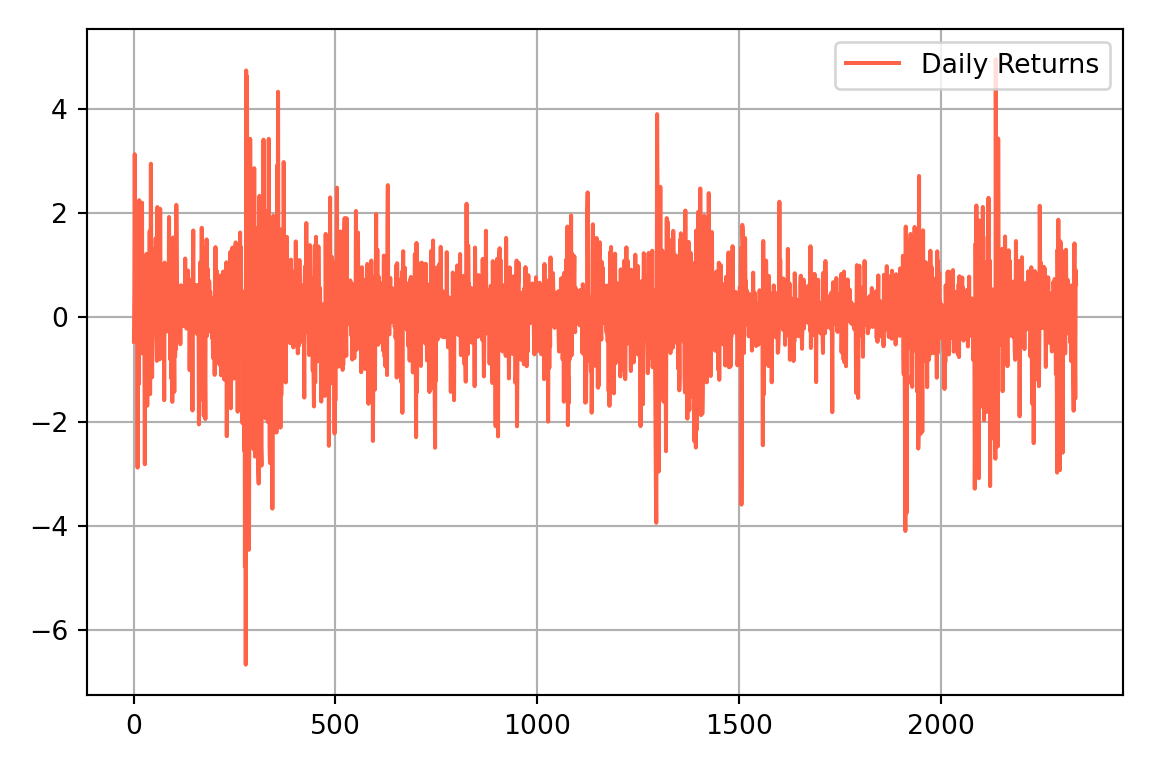
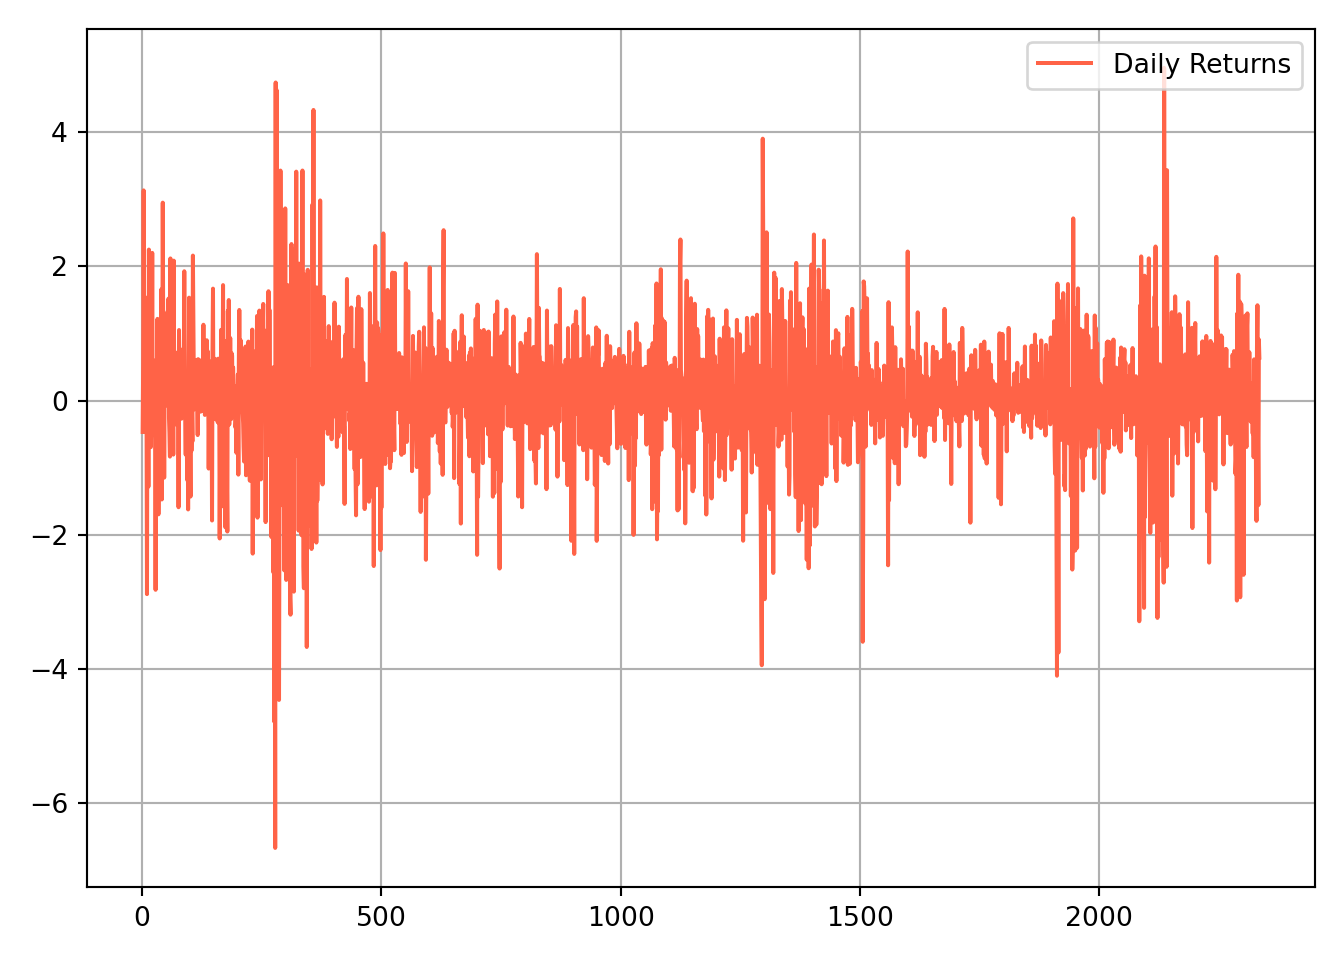
version 2.0

Changed region(s): [[0.0312, 0.0312, 1.0, 0.9688], [0.7812, 0.6562, 0.8438, 0.7188], [0.7812, 0.25, 0.8125, 0.3438]]

diff --git a/docs/fundamentos-del-modelo-garch.html b/docs/fundamentos-del-modelo-garch.html
@@ -215,9 +215,9 @@ code span.wa { color: #60a0b0; font-weight: bold; font-style: italic; } /* Warni
 <h2><span class="header-section-number">2.3</span> Calculo de Volatilidad en <code>Python</code><a href="fundamentos-del-modelo-garch.html#calculo-de-volatilidad-en-python" class="anchor-section" aria-label="Anchor link to header"></a></h2>
 <p>Antes de que te de dolor de cabeza mirar las fórmulas matemáticas, la buena noticia es que puedes implementarlas en Python fácilmente.</p>
 <p>Para calcular los cambios porcentuales como rendimientos, aplicamos el método <code>"pct_change()"</code> del paquete <code>"pandas"</code> a los datos de precios, por ejemplo:</p>
-<div class="sourceCode" id="cb2"><pre class="sourceCode bash"><code class="sourceCode bash"><span id="cb2-1"><a href="fundamentos-del-modelo-garch.html#cb2-1" tabindex="-1"></a><span class="ex">return_data</span> = price_data.pct_change<span class="er">(</span><span class="kw">)</span></span></code></pre></div>
+<div class="sourceCode" id="cb1"><pre class="sourceCode bash"><code class="sourceCode bash"><span id="cb1-1"><a href="fundamentos-del-modelo-garch.html#cb1-1" tabindex="-1"></a><span class="ex">return_data</span> = price_data.pct_change<span class="er">(</span><span class="kw">)</span></span></code></pre></div>
 <p>Luego aplicamos el método <code>"std()"</code> a los datos devueltos para calcular la desviación estándar.</p>
-<div class="sourceCode" id="cb3"><pre class="sourceCode bash"><code class="sourceCode bash"><span id="cb3-1"><a href="fundamentos-del-modelo-garch.html#cb3-1" tabindex="-1"></a><span class="ex">Volatilidad</span> = return_data.std<span class="er">(</span><span class="kw">)</span></span></code></pre></div>
+<div class="sourceCode" id="cb2"><pre class="sourceCode bash"><code class="sourceCode bash"><span id="cb2-1"><a href="fundamentos-del-modelo-garch.html#cb2-1" tabindex="-1"></a><span class="ex">Volatilidad</span> = return_data.std<span class="er">(</span><span class="kw">)</span></span></code></pre></div>
 </div>
 <div id="conversión-de-volatilidad" class="section level2 hasAnchor" number="2.4">
 <h2><span class="header-section-number">2.4</span> Conversión de Volatilidad<a href="#conversi%C3%B3n-de-volatilidad" class="anchor-section" aria-label="Anchor link to header"></a></h2>
@@ -252,20 +252,20 @@ code span.wa { color: #60a0b0; font-weight: bold; font-style: italic; } /* Warni
 <h2><span class="header-section-number">2.7</span> Observando la agrupación de la volatilidad<a href="#observando-la-agrupaci%C3%B3n-de-la-volatilidad" class="anchor-section" aria-label="Anchor link to header"></a></h2>
 <p>La agrupación de la volatilidad se observa con frecuencia en los datos del mercado financiero y plantea un desafío para el modelado de series de tiempo.</p>
 <p>En este ejercicio, nos familiarizaremos con el conjunto de datos de precios diarios del S&amp;P500. Calcularemos las rentabilidades diarias a medida que cambia el precio porcentual, graficaremos los resultados y observaremos su comportamiento a lo largo del tiempo</p>
-<div class="sourceCode" id="cb4"><pre class="sourceCode python"><code class="sourceCode python"><span id="cb4-1"><a href="fundamentos-del-modelo-garch.html#cb4-1" tabindex="-1"></a><span class="im">import</span> pandas <span class="im">as</span> pd</span>
-<span id="cb4-2"><a href="fundamentos-del-modelo-garch.html#cb4-2" tabindex="-1"></a></span>
-<span id="cb4-3"><a href="fundamentos-del-modelo-garch.html#cb4-3" tabindex="-1"></a>sp_price <span class="op">=</span> pd.read_csv(<span class="st">&#39;/Users/juanisaulamejia/Documents/2025/GARCH Model/Data/SP500.csv&#39;</span>)</span></code></pre></div>
+<div class="sourceCode" id="cb3"><pre class="sourceCode python"><code class="sourceCode python"><span id="cb3-1"><a href="fundamentos-del-modelo-garch.html#cb3-1" tabindex="-1"></a><span class="im">import</span> pandas <span class="im">as</span> pd</span>
+<span id="cb3-2"><a href="fundamentos-del-modelo-garch.html#cb3-2" tabindex="-1"></a></span>
+<span id="cb3-3"><a href="fundamentos-del-modelo-garch.html#cb3-3" tabindex="-1"></a>sp_price <span class="op">=</span> pd.read_csv(<span class="st">&#39;/Users/juanisaulamejia/Documents/2025/GARCH Model/Data/SP500.csv&#39;</span>)</span></code></pre></div>
 <ul>
 <li><p>Comencemos calculando los rendimientos diarios como cambios porcentuales y guardamos en el dataframe <code>sp_price</code> en una nueva columna llamada <code>Return</code>.</p>
-<div class="sourceCode" id="cb5"><pre class="sourceCode python"><code class="sourceCode python"><span id="cb5-1"><a href="fundamentos-del-modelo-garch.html#cb5-1" tabindex="-1"></a><span class="im">import</span> matplotlib</span>
-<span id="cb5-2"><a href="fundamentos-del-modelo-garch.html#cb5-2" tabindex="-1"></a>matplotlib.use(<span class="st">&quot;Agg&quot;</span>)</span>
-<span id="cb5-3"><a href="fundamentos-del-modelo-garch.html#cb5-3" tabindex="-1"></a><span class="im">import</span> matplotlib.pyplot <span class="im">as</span> plt</span>
-<span id="cb5-4"><a href="fundamentos-del-modelo-garch.html#cb5-4" tabindex="-1"></a>plt.rcParams[<span class="st">&quot;figure.dpi&quot;</span>] <span class="op">=</span> <span class="dv">150</span></span>
-<span id="cb5-5"><a href="fundamentos-del-modelo-garch.html#cb5-5" tabindex="-1"></a><span class="co"># Cambios porcentuales </span></span>
-<span id="cb5-6"><a href="fundamentos-del-modelo-garch.html#cb5-6" tabindex="-1"></a>sp_price[<span class="st">&#39;Return&#39;</span>] <span class="op">=</span> <span class="dv">100</span> <span class="op">*</span> (sp_price[<span class="st">&#39;Close&#39;</span>].pct_change())</span>
-<span id="cb5-7"><a href="fundamentos-del-modelo-garch.html#cb5-7" tabindex="-1"></a></span>
-<span id="cb5-8"><a href="fundamentos-del-modelo-garch.html#cb5-8" tabindex="-1"></a><span class="co"># Ultimos 10 datos del sp_price</span></span>
-<span id="cb5-9"><a href="fundamentos-del-modelo-garch.html#cb5-9" tabindex="-1"></a><span class="bu">print</span>(sp_price.tail(<span class="dv">10</span>))</span></code></pre></div>
+<div class="sourceCode" id="cb4"><pre class="sourceCode python"><code class="sourceCode python"><span id="cb4-1"><a href="fundamentos-del-modelo-garch.html#cb4-1" tabindex="-1"></a><span class="im">import</span> matplotlib</span>
+<span id="cb4-2"><a href="fundamentos-del-modelo-garch.html#cb4-2" tabindex="-1"></a>matplotlib.use(<span class="st">&quot;Agg&quot;</span>)</span>
+<span id="cb4-3"><a href="fundamentos-del-modelo-garch.html#cb4-3" tabindex="-1"></a><span class="im">import</span> matplotlib.pyplot <span class="im">as</span> plt</span>
+<span id="cb4-4"><a href="fundamentos-del-modelo-garch.html#cb4-4" tabindex="-1"></a>plt.rcParams[<span class="st">&quot;figure.dpi&quot;</span>] <span class="op">=</span> <span class="dv">150</span></span>
+<span id="cb4-5"><a href="fundamentos-del-modelo-garch.html#cb4-5" tabindex="-1"></a><span class="co"># Cambios porcentuales </span></span>
+<span id="cb4-6"><a href="fundamentos-del-modelo-garch.html#cb4-6" tabindex="-1"></a>sp_price[<span class="st">&#39;Return&#39;</span>] <span class="op">=</span> <span class="dv">100</span> <span class="op">*</span> (sp_price[<span class="st">&#39;Close&#39;</span>].pct_change())</span>
+<span id="cb4-7"><a href="fundamentos-del-modelo-garch.html#cb4-7" tabindex="-1"></a></span>
+<span id="cb4-8"><a href="fundamentos-del-modelo-garch.html#cb4-8" tabindex="-1"></a><span class="co"># Ultimos 10 datos del sp_price</span></span>
+<span id="cb4-9"><a href="fundamentos-del-modelo-garch.html#cb4-9" tabindex="-1"></a><span class="bu">print</span>(sp_price.tail(<span class="dv">10</span>))</span></code></pre></div>
 <pre><code>##             Date    Close    Return
 ## 2326  2019/09/27  2961.79 -0.531633
 ## 2327  2019/09/30  2976.74  0.504762
@@ -277,29 +277,29 @@ code span.wa { color: #60a0b0; font-weight: bold; font-style: italic; } /* Warni
 ## 2333  2019/10/08  2893.06 -1.556083
 ## 2334  2019/10/09  2919.40  0.910455
 ## 2335  2019/10/10  2938.13  0.641570</code></pre>
-<div class="sourceCode" id="cb7"><pre class="sourceCode python"><code class="sourceCode python"><span id="cb7-1"><a href="fundamentos-del-modelo-garch.html#cb7-1" tabindex="-1"></a><span class="co"># Plot de Return</span></span>
-<span id="cb7-2"><a href="fundamentos-del-modelo-garch.html#cb7-2" tabindex="-1"></a>plt.plot(sp_price[<span class="st">&#39;Return&#39;</span>], color <span class="op">=</span> <span class="st">&#39;tomato&#39;</span>, label <span class="op">=</span> <span class="st">&#39;Daily Returns&#39;</span>)</span>
-<span id="cb7-3"><a href="fundamentos-del-modelo-garch.html#cb7-3" tabindex="-1"></a>plt.legend(loc<span class="op">=</span><span class="st">&#39;upper right&#39;</span>)</span>
-<span id="cb7-4"><a href="fundamentos-del-modelo-garch.html#cb7-4" tabindex="-1"></a>plt.grid(<span class="va">True</span>)</span>
-<span id="cb7-5"><a href="fundamentos-del-modelo-garch.html#cb7-5" tabindex="-1"></a>plt.tight_layout()</span>
-<span id="cb7-6"><a href="fundamentos-del-modelo-garch.html#cb7-6" tabindex="-1"></a>plt.show()</span></code></pre></div>
-<p><img src="_main_files/figure-html/grafico_return-1.png" width="576" /></p>
+<div class="sourceCode" id="cb6"><pre class="sourceCode python"><code class="sourceCode python"><span id="cb6-1"><a href="fundamentos-del-modelo-garch.html#cb6-1" tabindex="-1"></a><span class="co"># Plot de Return</span></span>
+<span id="cb6-2"><a href="fundamentos-del-modelo-garch.html#cb6-2" tabindex="-1"></a>plt.plot(sp_price[<span class="st">&#39;Return&#39;</span>], color <span class="op">=</span> <span class="st">&#39;tomato&#39;</span>, label <span class="op">=</span> <span class="st">&#39;Daily Returns&#39;</span>)</span>
+<span id="cb6-3"><a href="fundamentos-del-modelo-garch.html#cb6-3" tabindex="-1"></a>plt.legend(loc<span class="op">=</span><span class="st">&#39;upper right&#39;</span>)</span>
+<span id="cb6-4"><a href="fundamentos-del-modelo-garch.html#cb6-4" tabindex="-1"></a>plt.grid(<span class="va">True</span>)</span>
+<span id="cb6-5"><a href="fundamentos-del-modelo-garch.html#cb6-5" tabindex="-1"></a>plt.tight_layout()</span>
+<span id="cb6-6"><a href="fundamentos-del-modelo-garch.html#cb6-6" tabindex="-1"></a>plt.show()</span></code></pre></div>
+<p><img src="_main_files/figure-html/grafico_return-1.png" width="672" /></p>
 <p><br />
 Como se muestra en el gráfico, el mercado presentó periodos de alta volatilidad seguidos de periodos de baja volatilidad.<br />
 </p></li>
 </ul>
 <p>Ahora calculemos la volatilidad diaria como la desviación estándar de la rentabilidad de los precios. Luego, convertirá la volatilidad diaria en la volatilidad mensual y anual.</p>
-<div class="sourceCode" id="cb8"><pre class="sourceCode python"><code class="sourceCode python"><span id="cb8-1"><a href="fundamentos-del-modelo-garch.html#cb8-1" tabindex="-1"></a>std_daily <span class="op">=</span> sp_price[<span class="st">&#39;Return&#39;</span>].std()</span>
-<span id="cb8-2"><a href="fundamentos-del-modelo-garch.html#cb8-2" tabindex="-1"></a><span class="bu">print</span>(<span class="st">&#39;volatilidad Diaria: &#39;</span>, <span class="st">&#39;</span><span class="sc">{:.2f}</span><span class="st">%&#39;</span>.<span class="bu">format</span>(std_daily))</span></code></pre></div>
+<div class="sourceCode" id="cb7"><pre class="sourceCode python"><code class="sourceCode python"><span id="cb7-1"><a href="fundamentos-del-modelo-garch.html#cb7-1" tabindex="-1"></a>std_daily <span class="op">=</span> sp_price[<span class="st">&#39;Return&#39;</span>].std()</span>
+<span id="cb7-2"><a href="fundamentos-del-modelo-garch.html#cb7-2" tabindex="-1"></a><span class="bu">print</span>(<span class="st">&#39;volatilidad Diaria: &#39;</span>, <span class="st">&#39;</span><span class="sc">{:.2f}</span><span class="st">%&#39;</span>.<span class="bu">format</span>(std_daily))</span></code></pre></div>
 <pre><code>## volatilidad Diaria:  0.92%</code></pre>
 <p>Ahora calculemos la volatilidad mensual a partir de la volatilidad diaria:</p>
-<div class="sourceCode" id="cb10"><pre class="sourceCode python"><code class="sourceCode python"><span id="cb10-1"><a href="fundamentos-del-modelo-garch.html#cb10-1" tabindex="-1"></a><span class="im">import</span> math</span>
-<span id="cb10-2"><a href="fundamentos-del-modelo-garch.html#cb10-2" tabindex="-1"></a>std_monthly <span class="op">=</span> math.sqrt(<span class="dv">21</span>) <span class="op">*</span> std_daily</span>
-<span id="cb10-3"><a href="fundamentos-del-modelo-garch.html#cb10-3" tabindex="-1"></a><span class="bu">print</span> (<span class="st">&#39;volatilidad Mensual: &#39;</span>, <span class="st">&#39;</span><span class="sc">{:.2f}</span><span class="st">%&#39;</span>.<span class="bu">format</span>(std_monthly))</span></code></pre></div>
+<div class="sourceCode" id="cb9"><pre class="sourceCode python"><code class="sourceCode python"><span id="cb9-1"><a href="fundamentos-del-modelo-garch.html#cb9-1" tabindex="-1"></a><span class="im">import</span> math</span>
+<span id="cb9-2"><a href="fundamentos-del-modelo-garch.html#cb9-2" tabindex="-1"></a>std_monthly <span class="op">=</span> math.sqrt(<span class="dv">21</span>) <span class="op">*</span> std_daily</span>
+<span id="cb9-3"><a href="fundamentos-del-modelo-garch.html#cb9-3" tabindex="-1"></a><span class="bu">print</span> (<span class="st">&#39;volatilidad Mensual: &#39;</span>, <span class="st">&#39;</span><span class="sc">{:.2f}</span><span class="st">%&#39;</span>.<span class="bu">format</span>(std_monthly))</span></code></pre></div>
 <pre><code>## volatilidad Mensual:  4.20%</code></pre>
 <p>Y Luego la volatilidad anual a partir de la volatilidad diaria:</p>
-<div class="sourceCode" id="cb12"><pre class="sourceCode python"><code class="sourceCode python"><span id="cb12-1"><a href="fundamentos-del-modelo-garch.html#cb12-1" tabindex="-1"></a>std_annual <span class="op">=</span> math.sqrt(<span class="dv">252</span>) <span class="op">*</span> std_daily</span>
-<span id="cb12-2"><a href="fundamentos-del-modelo-garch.html#cb12-2" tabindex="-1"></a><span class="bu">print</span> (<span class="st">&#39;Volatilidad Anual: &#39;</span>, <span class="st">&#39;</span><span class="sc">{:.2f}</span><span class="st">%&#39;</span>.<span class="bu">format</span>(std_annual))</span></code></pre></div>
+<div class="sourceCode" id="cb11"><pre class="sourceCode python"><code class="sourceCode python"><span id="cb11-1"><a href="fundamentos-del-modelo-garch.html#cb11-1" tabindex="-1"></a>std_annual <span class="op">=</span> math.sqrt(<span class="dv">252</span>) <span class="op">*</span> std_daily</span>
+<span id="cb11-2"><a href="fundamentos-del-modelo-garch.html#cb11-2" tabindex="-1"></a><span class="bu">print</span> (<span class="st">&#39;Volatilidad Anual: &#39;</span>, <span class="st">&#39;</span><span class="sc">{:.2f}</span><span class="st">%&#39;</span>.<span class="bu">format</span>(std_annual))</span></code></pre></div>
 <pre><code>## Volatilidad Anual:  14.55%</code></pre>
 <p>Observe que el mercado es realmente arriesgado. La volatilidad anualizada del S&amp;P500 indica que sus rendimientos reales pueden fluctuar más del 10% en torno a la rentabilidad media.</p>
 

diff --git a/docs/404.html b/docs/404.html
@@ -60,70 +60,6 @@ set in the _output.yml file.</p>" />
 <script src="libs/anchor-sections-1.1.0/anchor-sections.js"></script>
 
 
-<style type="text/css">
-pre > code.sourceCode { white-space: pre; position: relative; }
-pre > code.sourceCode > span { line-height: 1.25; }
-pre > code.sourceCode > span:empty { height: 1.2em; }
-.sourceCode { overflow: visible; }
-code.sourceCode > span { color: inherit; text-decoration: inherit; }
-pre.sourceCode { margin: 0; }
-@media screen {
-div.sourceCode { overflow: auto; }
-}
-@media print {
-pre > code.sourceCode { white-space: pre-wrap; }
-pre > code.sourceCode > span { display: inline-block; text-indent: -5em; padding-left: 5em; }
-}
-pre.numberSource code
-  { counter-reset: source-line 0; }
-pre.numberSource code > span
-  { position: relative; left: -4em; counter-increment: source-line; }
-pre.numberSource code > span > a:first-child::before
-  { content: counter(source-line);
-    position: relative; left: -1em; text-align: right; vertical-align: baseline;
-    border: none; display: inline-block;
-    -webkit-touch-callout: none; -webkit-user-select: none;
-    -khtml-user-select: none; -moz-user-select: none;
-    -ms-user-select: none; user-select: none;
-    padding: 0 4px; width: 4em;
-    color: #aaaaaa;
-  }
-pre.numberSource { margin-left: 3em; border-left: 1px solid #aaaaaa;  padding-left: 4px; }
-div.sourceCode
-  {   }
-@media screen {
-pre > code.sourceCode > span > a:first-child::before { text-decoration: underline; }
-}
-code span.al { color: #ff0000; font-weight: bold; } /* Alert */
-code span.an { color: #60a0b0; font-weight: bold; font-style: italic; } /* Annotation */
-code span.at { color: #7d9029; } /* Attribute */
-code span.bn { color: #40a070; } /* BaseN */
-code span.bu { color: #008000; } /* BuiltIn */
-code span.cf { color: #007020; font-weight: bold; } /* ControlFlow */
-code span.ch { color: #4070a0; } /* Char */
-code span.cn { color: #880000; } /* Constant */
-code span.co { color: #60a0b0; font-style: italic; } /* Comment */
-code span.cv { color: #60a0b0; font-weight: bold; font-style: italic; } /* CommentVar */
-code span.do { color: #ba2121; font-style: italic; } /* Documentation */
-code span.dt { color: #902000; } /* DataType */
-code span.dv { color: #40a070; } /* DecVal */
-code span.er { color: #ff0000; font-weight: bold; } /* Error */
-code span.ex { } /* Extension */
-code span.fl { color: #40a070; } /* Float */
-code span.fu { color: #06287e; } /* Function */
-code span.im { color: #008000; font-weight: bold; } /* Import */
-code span.in { color: #60a0b0; font-weight: bold; font-style: italic; } /* Information */
-code span.kw { color: #007020; font-weight: bold; } /* Keyword */
-code span.op { color: #666666; } /* Operator */
-code span.ot { color: #007020; } /* Other */
-code span.pp { color: #bc7a00; } /* Preprocessor */
-code span.sc { color: #4070a0; } /* SpecialChar */
-code span.ss { color: #bb6688; } /* SpecialString */
-code span.st { color: #4070a0; } /* String */
-code span.va { color: #19177c; } /* Variable */
-code span.vs { color: #4070a0; } /* VerbatimString */
-code span.wa { color: #60a0b0; font-weight: bold; font-style: italic; } /* Warning */
-</style>
 
 <style type="text/css">
   
@@ -252,20 +188,6 @@ gitbook.start({
 });
 </script>
 
-<!-- dynamically load mathjax for compatibility with self-contained -->
-<script>
-  (function () {
-    var script = document.createElement("script");
-    script.type = "text/javascript";
-    var src = "true";
-    if (src === "" || src === "true") src = "https://cdnjs.cloudflare.com/ajax/libs/mathjax/2.7.9/latest.js?config=TeX-MML-AM_CHTML";
-    if (location.protocol !== "file:")
-      if (/^https?:/.test(src))
-        src = src.replace(/^https?:/, '');
-    script.src = src;
-    document.getElementsByTagName("head")[0].appendChild(script);
-  })();
-</script>
 </body>
 
 </html>

diff --git a/docs/references.html b/docs/references.html
@@ -60,70 +60,6 @@ set in the _output.yml file.</p>" />
 <script src="libs/anchor-sections-1.1.0/anchor-sections.js"></script>
 
 
-<style type="text/css">
-pre > code.sourceCode { white-space: pre; position: relative; }
-pre > code.sourceCode > span { line-height: 1.25; }
-pre > code.sourceCode > span:empty { height: 1.2em; }
-.sourceCode { overflow: visible; }
-code.sourceCode > span { color: inherit; text-decoration: inherit; }
-pre.sourceCode { margin: 0; }
-@media screen {
-div.sourceCode { overflow: auto; }
-}
-@media print {
-pre > code.sourceCode { white-space: pre-wrap; }
-pre > code.sourceCode > span { display: inline-block; text-indent: -5em; padding-left: 5em; }
-}
-pre.numberSource code
-  { counter-reset: source-line 0; }
-pre.numberSource code > span
-  { position: relative; left: -4em; counter-increment: source-line; }
-pre.numberSource code > span > a:first-child::before
-  { content: counter(source-line);
-    position: relative; left: -1em; text-align: right; vertical-align: baseline;
-    border: none; display: inline-block;
-    -webkit-touch-callout: none; -webkit-user-select: none;
-    -khtml-user-select: none; -moz-user-select: none;
-    -ms-user-select: none; user-select: none;
-    padding: 0 4px; width: 4em;
-    color: #aaaaaa;
-  }
-pre.numberSource { margin-left: 3em; border-left: 1px solid #aaaaaa;  padding-left: 4px; }
-div.sourceCode
-  {   }
-@media screen {
-pre > code.sourceCode > span > a:first-child::before { text-decoration: underline; }
-}
-code span.al { color: #ff0000; font-weight: bold; } /* Alert */
-code span.an { color: #60a0b0; font-weight: bold; font-style: italic; } /* Annotation */
-code span.at { color: #7d9029; } /* Attribute */
-code span.bn { color: #40a070; } /* BaseN */
-code span.bu { color: #008000; } /* BuiltIn */
-code span.cf { color: #007020; font-weight: bold; } /* ControlFlow */
-code span.ch { color: #4070a0; } /* Char */
-code span.cn { color: #880000; } /* Constant */
-code span.co { color: #60a0b0; font-style: italic; } /* Comment */
-code span.cv { color: #60a0b0; font-weight: bold; font-style: italic; } /* CommentVar */
-code span.do { color: #ba2121; font-style: italic; } /* Documentation */
-code span.dt { color: #902000; } /* DataType */
-code span.dv { color: #40a070; } /* DecVal */
-code span.er { color: #ff0000; font-weight: bold; } /* Error */
-code span.ex { } /* Extension */
-code span.fl { color: #40a070; } /* Float */
-code span.fu { color: #06287e; } /* Function */
-code span.im { color: #008000; font-weight: bold; } /* Import */
-code span.in { color: #60a0b0; font-weight: bold; font-style: italic; } /* Information */
-code span.kw { color: #007020; font-weight: bold; } /* Keyword */
-code span.op { color: #666666; } /* Operator */
-code span.ot { color: #007020; } /* Other */
-code span.pp { color: #bc7a00; } /* Preprocessor */
-code span.sc { color: #4070a0; } /* SpecialChar */
-code span.ss { color: #bb6688; } /* SpecialString */
-code span.st { color: #4070a0; } /* String */
-code span.va { color: #19177c; } /* Variable */
-code span.vs { color: #4070a0; } /* VerbatimString */
-code span.wa { color: #60a0b0; font-weight: bold; font-style: italic; } /* Warning */
-</style>
 
 <style type="text/css">
   
@@ -250,20 +186,6 @@ gitbook.start({
 });
 </script>
 
-<!-- dynamically load mathjax for compatibility with self-contained -->
-<script>
-  (function () {
-    var script = document.createElement("script");
-    script.type = "text/javascript";
-    var src = "true";
-    if (src === "" || src === "true") src = "https://cdnjs.cloudflare.com/ajax/libs/mathjax/2.7.9/latest.js?config=TeX-MML-AM_CHTML";
-    if (location.protocol !== "file:")
-      if (/^https?:/.test(src))
-        src = src.replace(/^https?:/, '');
-    script.src = src;
-    document.getElementsByTagName("head")[0].appendChild(script);
-  })();
-</script>
 </body>
 
 </html>

diff --git a/docs/qué-son-arch-y-garch.html b/docs/qué-son-arch-y-garch.html
@@ -60,70 +60,6 @@ set in the _output.yml file.</p>" />
 <script src="libs/anchor-sections-1.1.0/anchor-sections.js"></script>
 
 
-<style type="text/css">
-pre > code.sourceCode { white-space: pre; position: relative; }
-pre > code.sourceCode > span { line-height: 1.25; }
-pre > code.sourceCode > span:empty { height: 1.2em; }
-.sourceCode { overflow: visible; }
-code.sourceCode > span { color: inherit; text-decoration: inherit; }
-pre.sourceCode { margin: 0; }
-@media screen {
-div.sourceCode { overflow: auto; }
-}
-@media print {
-pre > code.sourceCode { white-space: pre-wrap; }
-pre > code.sourceCode > span { display: inline-block; text-indent: -5em; padding-left: 5em; }
-}
-pre.numberSource code
-  { counter-reset: source-line 0; }
-pre.numberSource code > span
-  { position: relative; left: -4em; counter-increment: source-line; }
-pre.numberSource code > span > a:first-child::before
-  { content: counter(source-line);
-    position: relative; left: -1em; text-align: right; vertical-align: baseline;
-    border: none; display: inline-block;
-    -webkit-touch-callout: none; -webkit-user-select: none;
-    -khtml-user-select: none; -moz-user-select: none;
-    -ms-user-select: none; user-select: none;
-    padding: 0 4px; width: 4em;
-    color: #aaaaaa;
-  }
-pre.numberSource { margin-left: 3em; border-left: 1px solid #aaaaaa;  padding-left: 4px; }
-div.sourceCode
-  {   }
-@media screen {
-pre > code.sourceCode > span > a:first-child::before { text-decoration: underline; }
-}
-code span.al { color: #ff0000; font-weight: bold; } /* Alert */
-code span.an { color: #60a0b0; font-weight: bold; font-style: italic; } /* Annotation */
-code span.at { color: #7d9029; } /* Attribute */
-code span.bn { color: #40a070; } /* BaseN */
-code span.bu { color: #008000; } /* BuiltIn */
-code span.cf { color: #007020; font-weight: bold; } /* ControlFlow */
-code span.ch { color: #4070a0; } /* Char */
-code span.cn { color: #880000; } /* Constant */
-code span.co { color: #60a0b0; font-style: italic; } /* Comment */
-code span.cv { color: #60a0b0; font-weight: bold; font-style: italic; } /* CommentVar */
-code span.do { color: #ba2121; font-style: italic; } /* Documentation */
-code span.dt { color: #902000; } /* DataType */
-code span.dv { color: #40a070; } /* DecVal */
-code span.er { color: #ff0000; font-weight: bold; } /* Error */
-code span.ex { } /* Extension */
-code span.fl { color: #40a070; } /* Float */
-code span.fu { color: #06287e; } /* Function */
-code span.im { color: #008000; font-weight: bold; } /* Import */
-code span.in { color: #60a0b0; font-weight: bold; font-style: italic; } /* Information */
-code span.kw { color: #007020; font-weight: bold; } /* Keyword */
-code span.op { color: #666666; } /* Operator */
-code span.ot { color: #007020; } /* Other */
-code span.pp { color: #bc7a00; } /* Preprocessor */
-code span.sc { color: #4070a0; } /* SpecialChar */
-code span.ss { color: #bb6688; } /* SpecialString */
-code span.st { color: #4070a0; } /* String */
-code span.va { color: #19177c; } /* Variable */
-code span.vs { color: #4070a0; } /* VerbatimString */
-code span.wa { color: #60a0b0; font-weight: bold; font-style: italic; } /* Warning */
-</style>
 
 <style type="text/css">
   

diff --git a/docs/index.html b/docs/index.html
@@ -263,20 +263,6 @@ gitbook.start({
 });
 </script>
 
-<!-- dynamically load mathjax for compatibility with self-contained -->
-<script>
-  (function () {
-    var script = document.createElement("script");
-    script.type = "text/javascript";
-    var src = "true";
-    if (src === "" || src === "true") src = "https://cdnjs.cloudflare.com/ajax/libs/mathjax/2.7.9/latest.js?config=TeX-MML-AM_CHTML";
-    if (location.protocol !== "file:")
-      if (/^https?:/.test(src))
-        src = src.replace(/^https?:/, '');
-    script.src = src;
-    document.getElementsByTagName("head")[0].appendChild(script);
-  })();
-</script>
 </body>
 
 </html>
